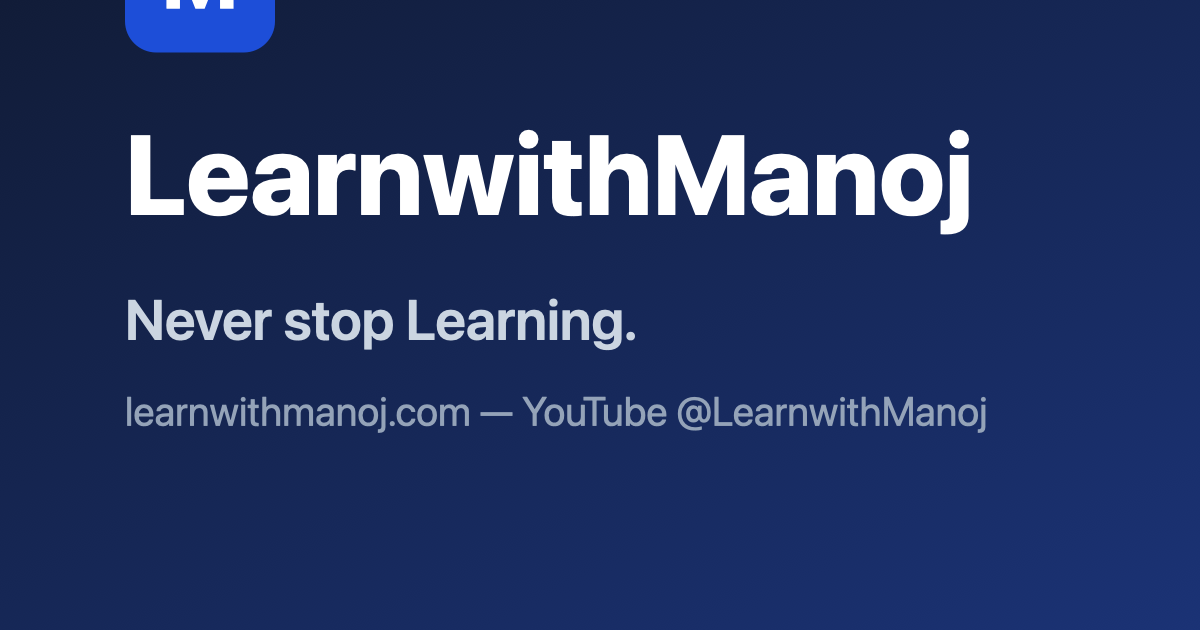
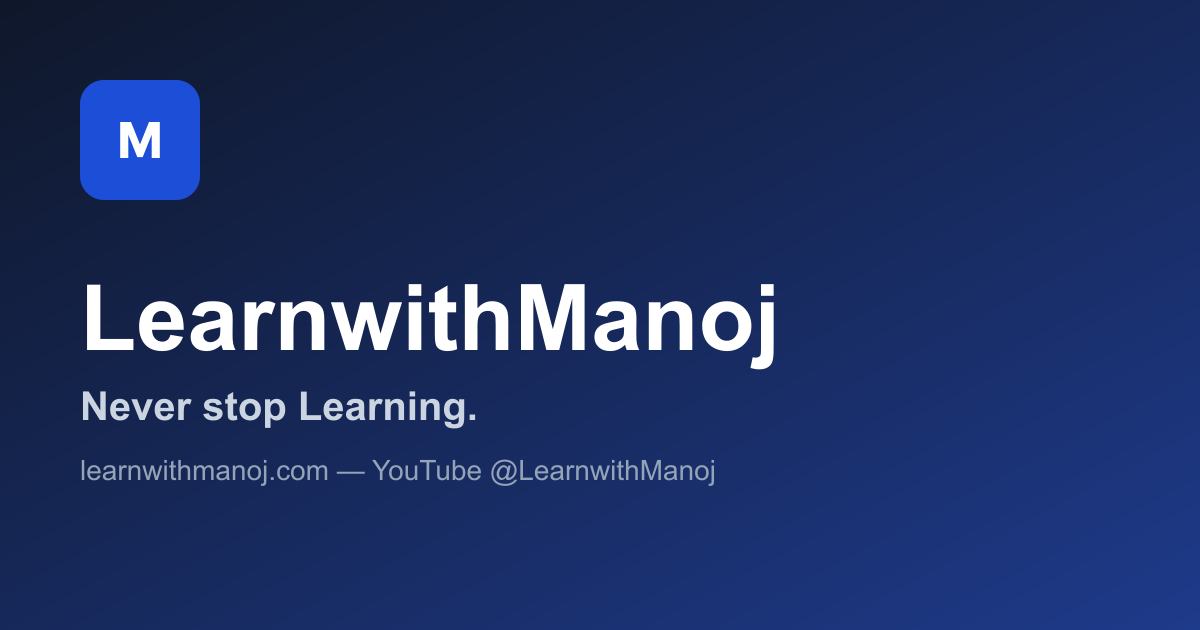
SEO Modifications

diff --git a/README.md b/README.md
@@ -106,7 +106,10 @@ Frontmatter constraints (see [`src/content.config.ts`](src/content.config.ts)):
 ├── postcss.config.mjs          Tailwind v4 via PostCSS
 ├── public/
 │   ├── favicon.svg
-│   ├── og-default.svg          Source-of-truth for the default OG card
+│   ├── apple-touch-icon.svg   Source for the iOS home-screen icon (180×180)
+│   ├── apple-touch-icon.png   Generated by `npm run icons`
+│   ├── og-default.svg         Source-of-truth for the default OG card (1200×630)
+│   ├── og-default.png         Generated by `npm run icons`
 │   └── robots.txt
 ├── src/
 │   ├── consts.ts               Site URL, channel ID, nav, social
@@ -140,19 +143,15 @@ Frontmatter constraints (see [`src/content.config.ts`](src/content.config.ts)):
 
 ## Generating the default OG image
 
-`public/og-default.svg` is the editable source for the social-share card. Most platforms (Twitter, LinkedIn, Facebook, Slack) **don't render SVG OG images**, so generate a PNG once:
+`public/og-default.svg` and `public/apple-touch-icon.svg` are the editable sources. Most platforms (X, LinkedIn, Facebook, Slack, iOS) **don't render SVG**, so both files are also shipped as PNG. Regenerate them whenever the SVG sources change:
 
 ```bash
-# Using rsvg-convert (brew install librsvg)
-rsvg-convert -w 1200 -h 630 public/og-default.svg -o public/og-default.png
-
-# Or using ImageMagick
-magick public/og-default.svg -resize 1200x630 public/og-default.png
-
-# Or use any online SVG-to-PNG converter at 1200x630.
+npm run icons
 ```
 
-`BaseHead.astro` references `/og-default.png` — once you generate it, every page picks it up automatically.
+That command runs `scripts/render-static-images.mjs`, which uses Astro's bundled `sharp` (via librsvg) to render `apple-touch-icon.png` at 180×180 and `og-default.png` at 1200×630. The renderer preserves gradients, paths, and text rendering identically to the SVG source — unlike `qlmanage` or macOS Preview, which produce only rough thumbnails.
+
+`BaseHead.astro` already references `/apple-touch-icon.png` and `/og-default.png` — once you regenerate, every page picks them up automatically. Commit the PNGs alongside the SVGs so production matches what was reviewed locally.
 
 ---
 
